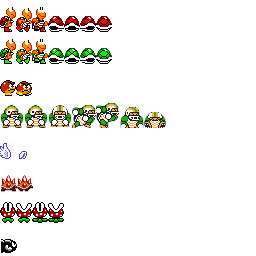
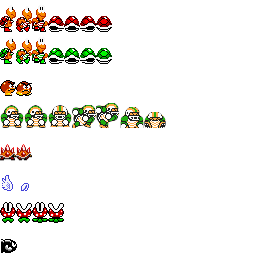
Fixed issues with Spiny and Wing spawning

Changed region(s): [[0.0, 0.6875, 0.125, 0.75], [0.0, 0.5625, 0.125, 0.625]]

diff --git a/code/enemy.js b/code/enemy.js
@@ -43,7 +43,7 @@ Mario.Enemy = function (world, x, y, dir, type, winged) {
     }
 
     this.PicWidth = 16;
-    if (this.Type == 3) {
+    if (this.Type == Mario.Enemy.Chuck) {
         this.PicWidth = 24
         this.Width = 7
         this.Height = 22
@@ -69,9 +69,9 @@ Mario.Enemy.prototype.CollideCheck = function () {
 
     if (xMarioD > -this.Width * 2 - 4 && xMarioD < this.Width * 2 + 4) {
         if (yMarioD > -this.Height && yMarioD < Mario.MarioCharacter.Height) {
-            if (this.Type !== Mario.Enemy.Spiky && Mario.MarioCharacter.Ya > 0 && yMarioD <= 0 && Mario.MarioCharacter.launched == 0 && (!Mario.MarioCharacter.OnGround || !Mario.MarioCharacter.WasOnGround)) {
+            if (this.Type != Mario.Enemy.Spiky && Mario.MarioCharacter.Ya > 0 && yMarioD <= 0 && Mario.MarioCharacter.launched == 0 && (!Mario.MarioCharacter.OnGround || !Mario.MarioCharacter.WasOnGround)) {
 
-                if (this.Type == 3) {
+                if (this.Type == Mario.Enemy.Chuck) {
                     if (this.chuckstomptimer > 0 && !Mario.MarioCharacter.airdodging) {
                         Mario.MarioCharacter.Stomp(this);
                         this.PicHeight = 12;
@@ -495,7 +495,7 @@ Mario.Enemy.prototype.Draw = function (context, camera) {
             context.save();
             context.scale(this.XFlip ? -1 : 1, this.YFlip ? -1 : 1);
             context.translate(this.XFlip ? -320 : 0, this.YFlip ? -240 : 0);
-            context.drawImage(this.Image, (((this.WingTime / 4) | 0) % 2) * 16, 4 * 32, 16, 32,
+            context.drawImage(this.Image, (((this.WingTime / 4) | 0) % 2) * 16, Mario.Enemy.Wing * 32, 16, 32,
                 this.XFlip ? (320 - xPixel - 24) : xPixel - 8, this.YFlip ? (240 - yPixel - 32) : yPixel - 8, 16, 32);
             context.restore();
             this.XFlip = !this.XFlip;
@@ -512,14 +512,14 @@ Mario.Enemy.prototype.Draw = function (context, camera) {
             context.save();
             context.scale(this.XFlip ? -1 : 1, this.YFlip ? -1 : 1);
             context.translate(this.XFlip ? -320 : 0, this.YFlip ? -240 : 0);
-            context.drawImage(this.Image, (((this.WingTime / 4) | 0) % 2) * 16, 4 * 32, 16, 32,
+            context.drawImage(this.Image - 1, (((this.WingTime / 4) | 0) % 2) * 16, Mario.Enemy.Wing * 32, 16, 32,
                 this.XFlip ? (320 - xPixel - 24) : xPixel - 8, this.YFlip ? (240 - yPixel) : yPixel - 8, 16, 32);
             context.restore();
         } else {
             context.save();
             context.scale(this.XFlip ? -1 : 1, this.YFlip ? -1 : 1);
             context.translate(this.XFlip ? -320 : 0, this.YFlip ? -240 : 0);
-            context.drawImage(this.Image, (((this.WingTime / 4) | 0) % 2) * 16, 4 * 32, 16, 32,
+            context.drawImage(this.Image, (((this.WingTime / 4) | 0) % 2) * 16, Mario.Enemy.Wing * 32, 16, 32,
                 this.XFlip ? (320 - xPixel - 24) : xPixel - 8, this.YFlip ? (240 - yPixel - 32) : yPixel - 8, 16, 32);
             context.restore();
         }
@@ -530,6 +530,7 @@ Mario.Enemy.prototype.Draw = function (context, camera) {
 Mario.Enemy.RedKoopa = 0;
 Mario.Enemy.GreenKoopa = 1;
 Mario.Enemy.Goomba = 2;
-Mario.Enemy.Spiky = 4;
-Mario.Enemy.Flower = 5;
 Mario.Enemy.Chuck = 3;
+Mario.Enemy.Spiky = 4;
+Mario.Enemy.Wing = 5;
+Mario.Enemy.Flower = 6;

diff --git a/Enjine/gameCanvas.js b/Enjine/gameCanvas.js
@@ -3,15 +3,15 @@
 	Code by Rob Kleffner, 2011
 */
 
-Enjine.GameCanvas = function() {
+Enjine.GameCanvas = function () {
 	this.Canvas = null;
 	this.Context2D = null;
-    this.BackBuffer = null;
+	this.BackBuffer = null;
 	this.BackBufferContext2D = null;
 };
 
 Enjine.GameCanvas.prototype = {
-    Initialize: function(canvasId, resWidth, resHeight) {
+	Initialize: function (canvasId, resWidth, resHeight) {
 		this.Canvas = document.getElementById(canvasId);
 		this.Context2D = this.Canvas.getContext("2d");
 		this.BackBuffer = document.createElement("canvas");
@@ -19,13 +19,13 @@ Enjine.GameCanvas.prototype = {
 		this.BackBuffer.height = resHeight;
 		this.BackBufferContext2D = this.BackBuffer.getContext("2d");
 	},
-	
-    BeginDraw: function() {
-        this.BackBufferContext2D.clearRect(0, 0, this.BackBuffer.width, this.BackBuffer.height);
-        this.Context2D.clearRect(0, 0, this.Canvas.width, this.Canvas.height);
-    },
-    
-    EndDraw: function() {
-        this.Context2D.drawImage(this.BackBuffer, 0, 0, this.BackBuffer.width, this.BackBuffer.height, 0, 0, this.Canvas.width, this.Canvas.height);
-    }
+
+	BeginDraw: function () {
+		this.BackBufferContext2D.clearRect(0, 0, this.BackBuffer.width, this.BackBuffer.height);
+		this.Context2D.clearRect(0, 0, this.Canvas.width, this.Canvas.height);
+	},
+
+	EndDraw: function () {
+		this.Context2D.drawImage(this.BackBuffer, 0, 0, this.BackBuffer.width, this.BackBuffer.height, 0, 0, this.Canvas.width, this.Canvas.height);
+	}
 };

diff --git a/code/character.js b/code/character.js
@@ -85,6 +85,7 @@ Mario.Character.prototype = new Mario.NotchSprite(null);
 
 Mario.Character.prototype.Initialize = function (world) {
     this.World = world;
+
     if (this.World.LevelType == 3) {
         this.Y = 100;
         this.X = 40;
@@ -99,6 +100,7 @@ Mario.Character.prototype.Initialize = function (world) {
     this.percentdamage = 0
     // Character Specific Movement Stats
     if (this.character_select == "mario") {
+        // localStorage.setItem("test", "Mario");
         this.GroundInertia = 0.9;
         this.AirInertia = 0.9;
         this.GroundTraction = 0.83;
@@ -106,11 +108,13 @@ Mario.Character.prototype.Initialize = function (world) {
         this.JumpVel = -1.9;
     }
     else if (this.character_select == "luigi") {
+        // localStorage.setItem("test", "Luigi");
         this.GroundInertia = 0.89;
         this.AirInertia = 0.9;
         this.GroundTraction = 0.93;
         this.Gravity = 3;
         this.JumpVel = -2.75;
+
     }
     else if (this.character_select == "peach") {
         this.GroundInertia = 0.89;
@@ -227,6 +231,10 @@ Mario.Character.prototype.Blink = function (on) {
 
 Mario.Character.prototype.Move = function () {
     var launchfirsttime = true, launchtime = 0;
+    if (localStorage.test == "Luigi") {
+        return;
+    }
+
     if (this.WinTime > 0) {
         this.WinTime++;
         this.Xa = 0;

diff --git a/main.html b/main.html
@@ -53,6 +53,7 @@
     <script src="code/shell.js"></script>
     <script src="code/blastzone.js"></script>
     <script src="code/chest.js"></script>
+    <script src="code/localstorage.js"></script>
 
     <script src="code/titleState.js"></script>
     <script src="code/loadingState.js"></script>

diff --git a/code/localstorage.js b/code/localstorage.js
@@ -1,0 +1,1 @@
+localStorage.test == "Luigi"
